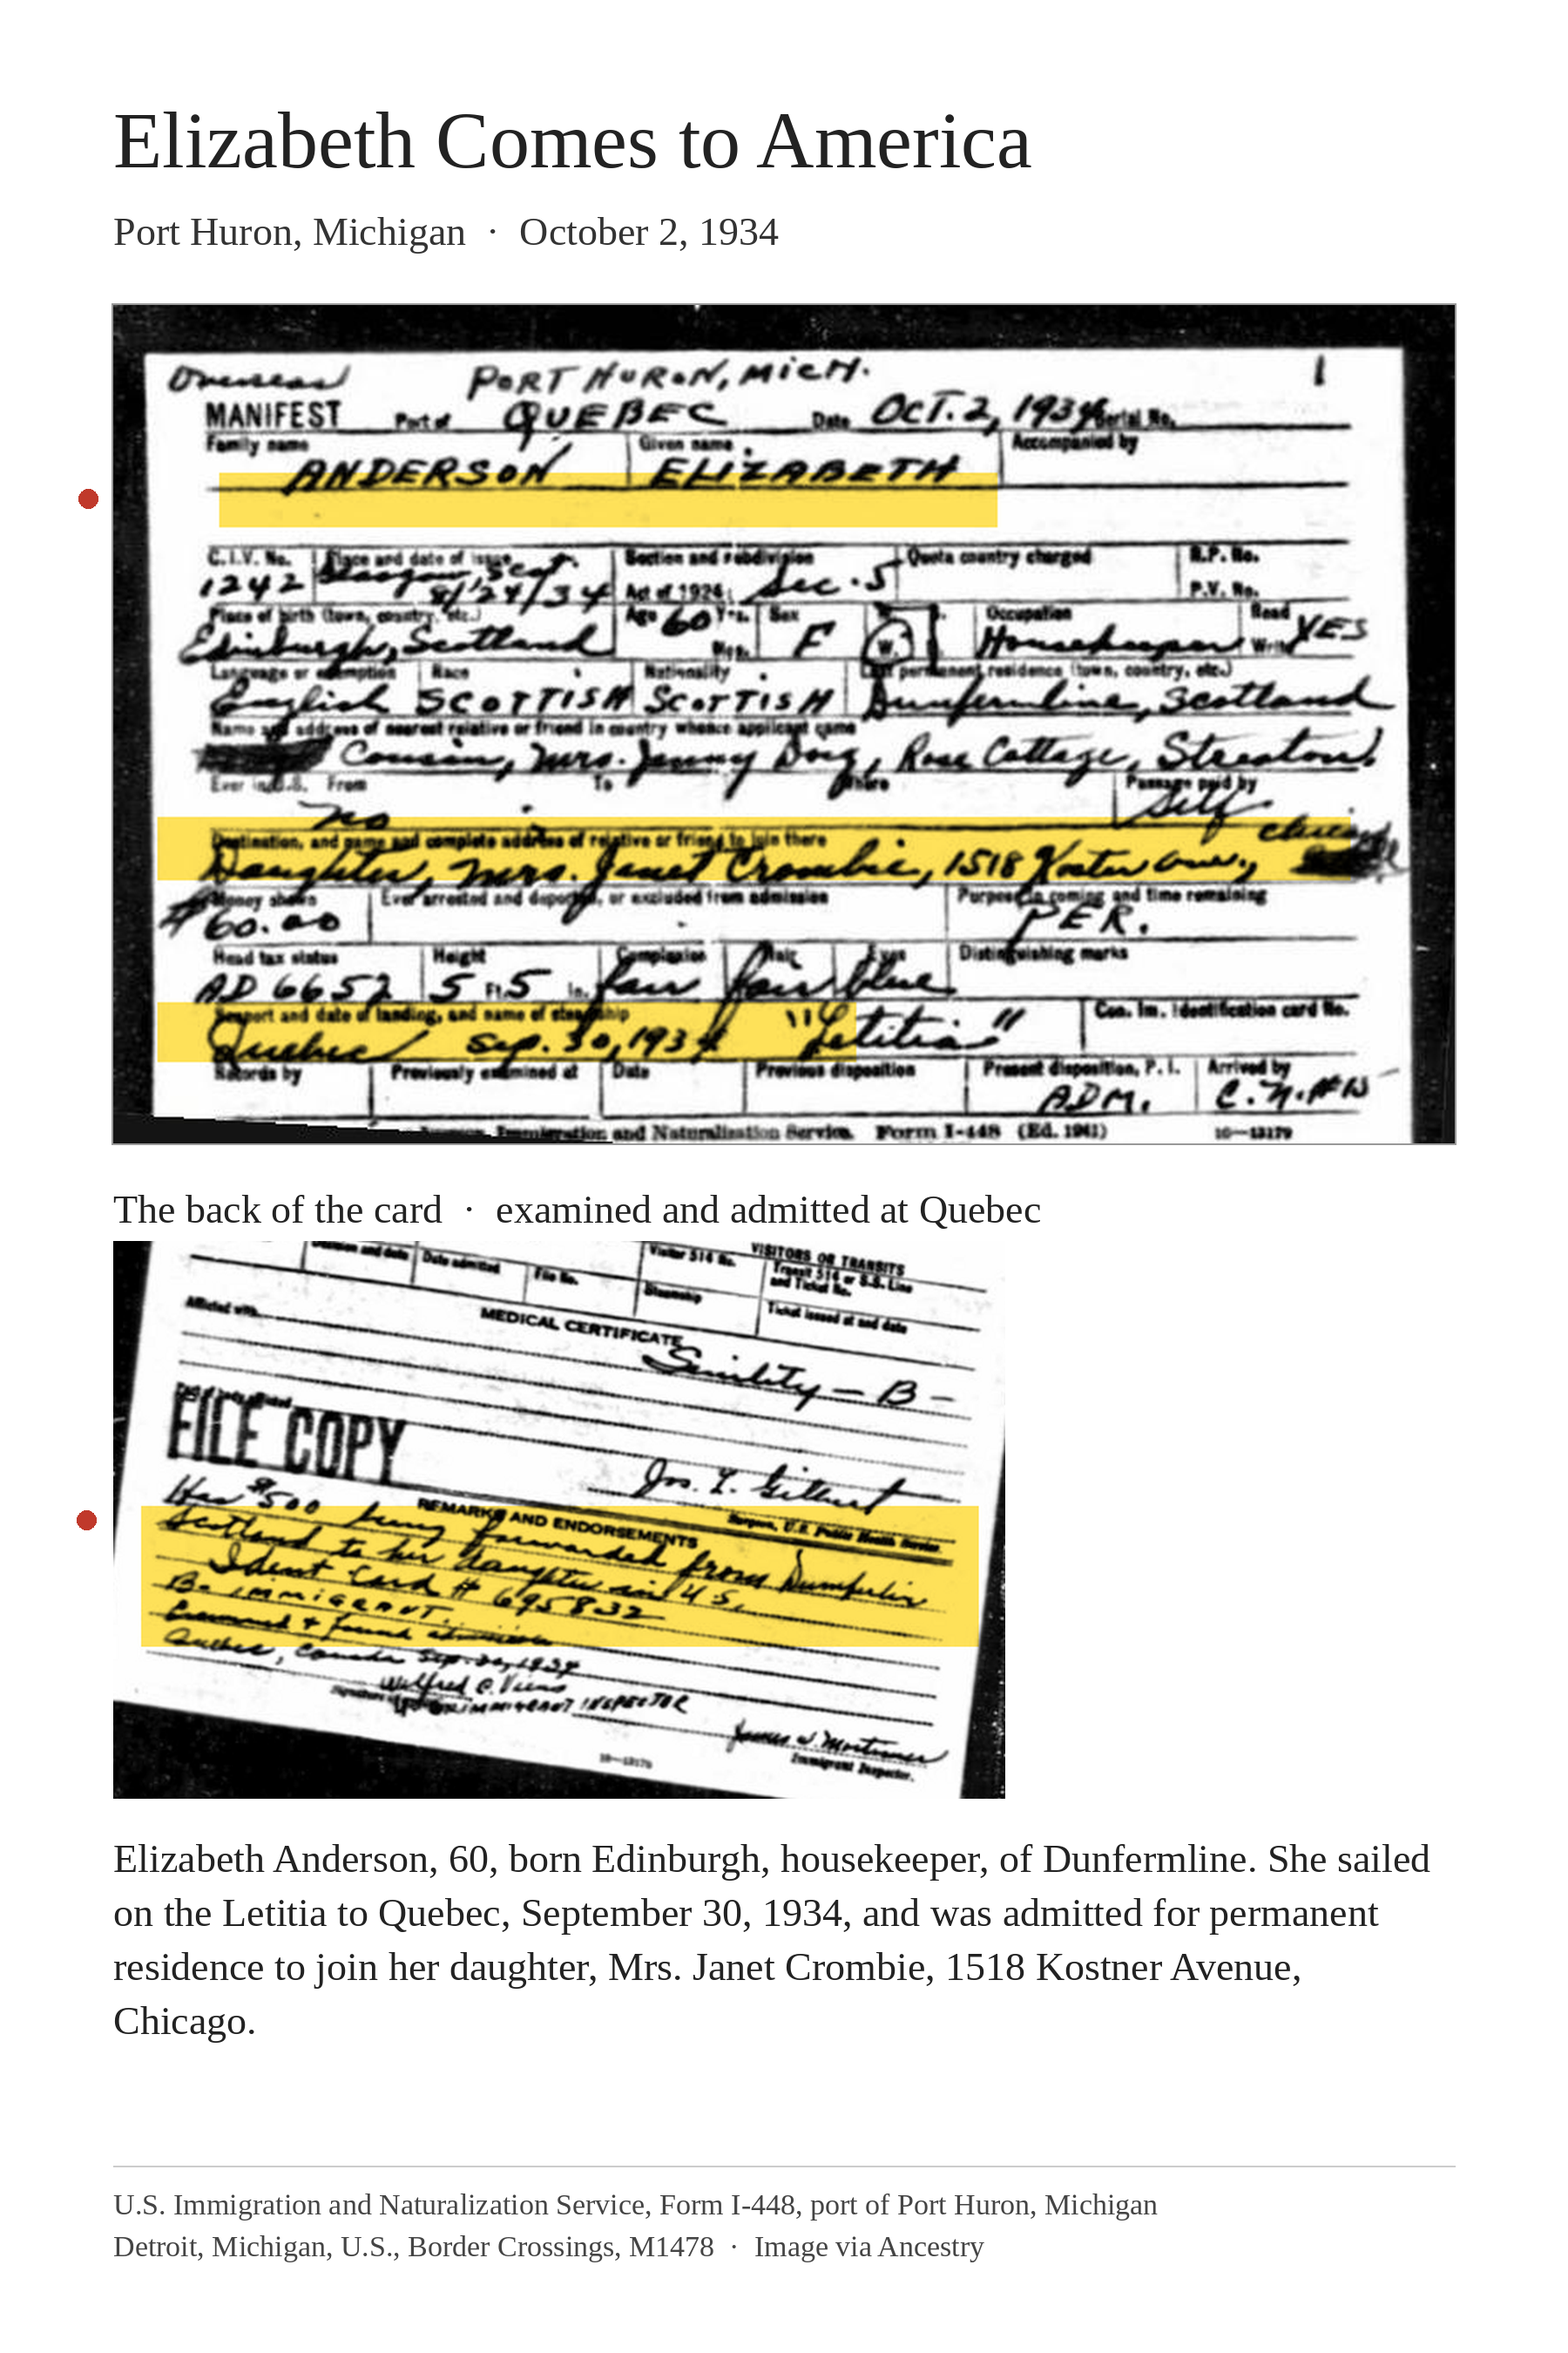
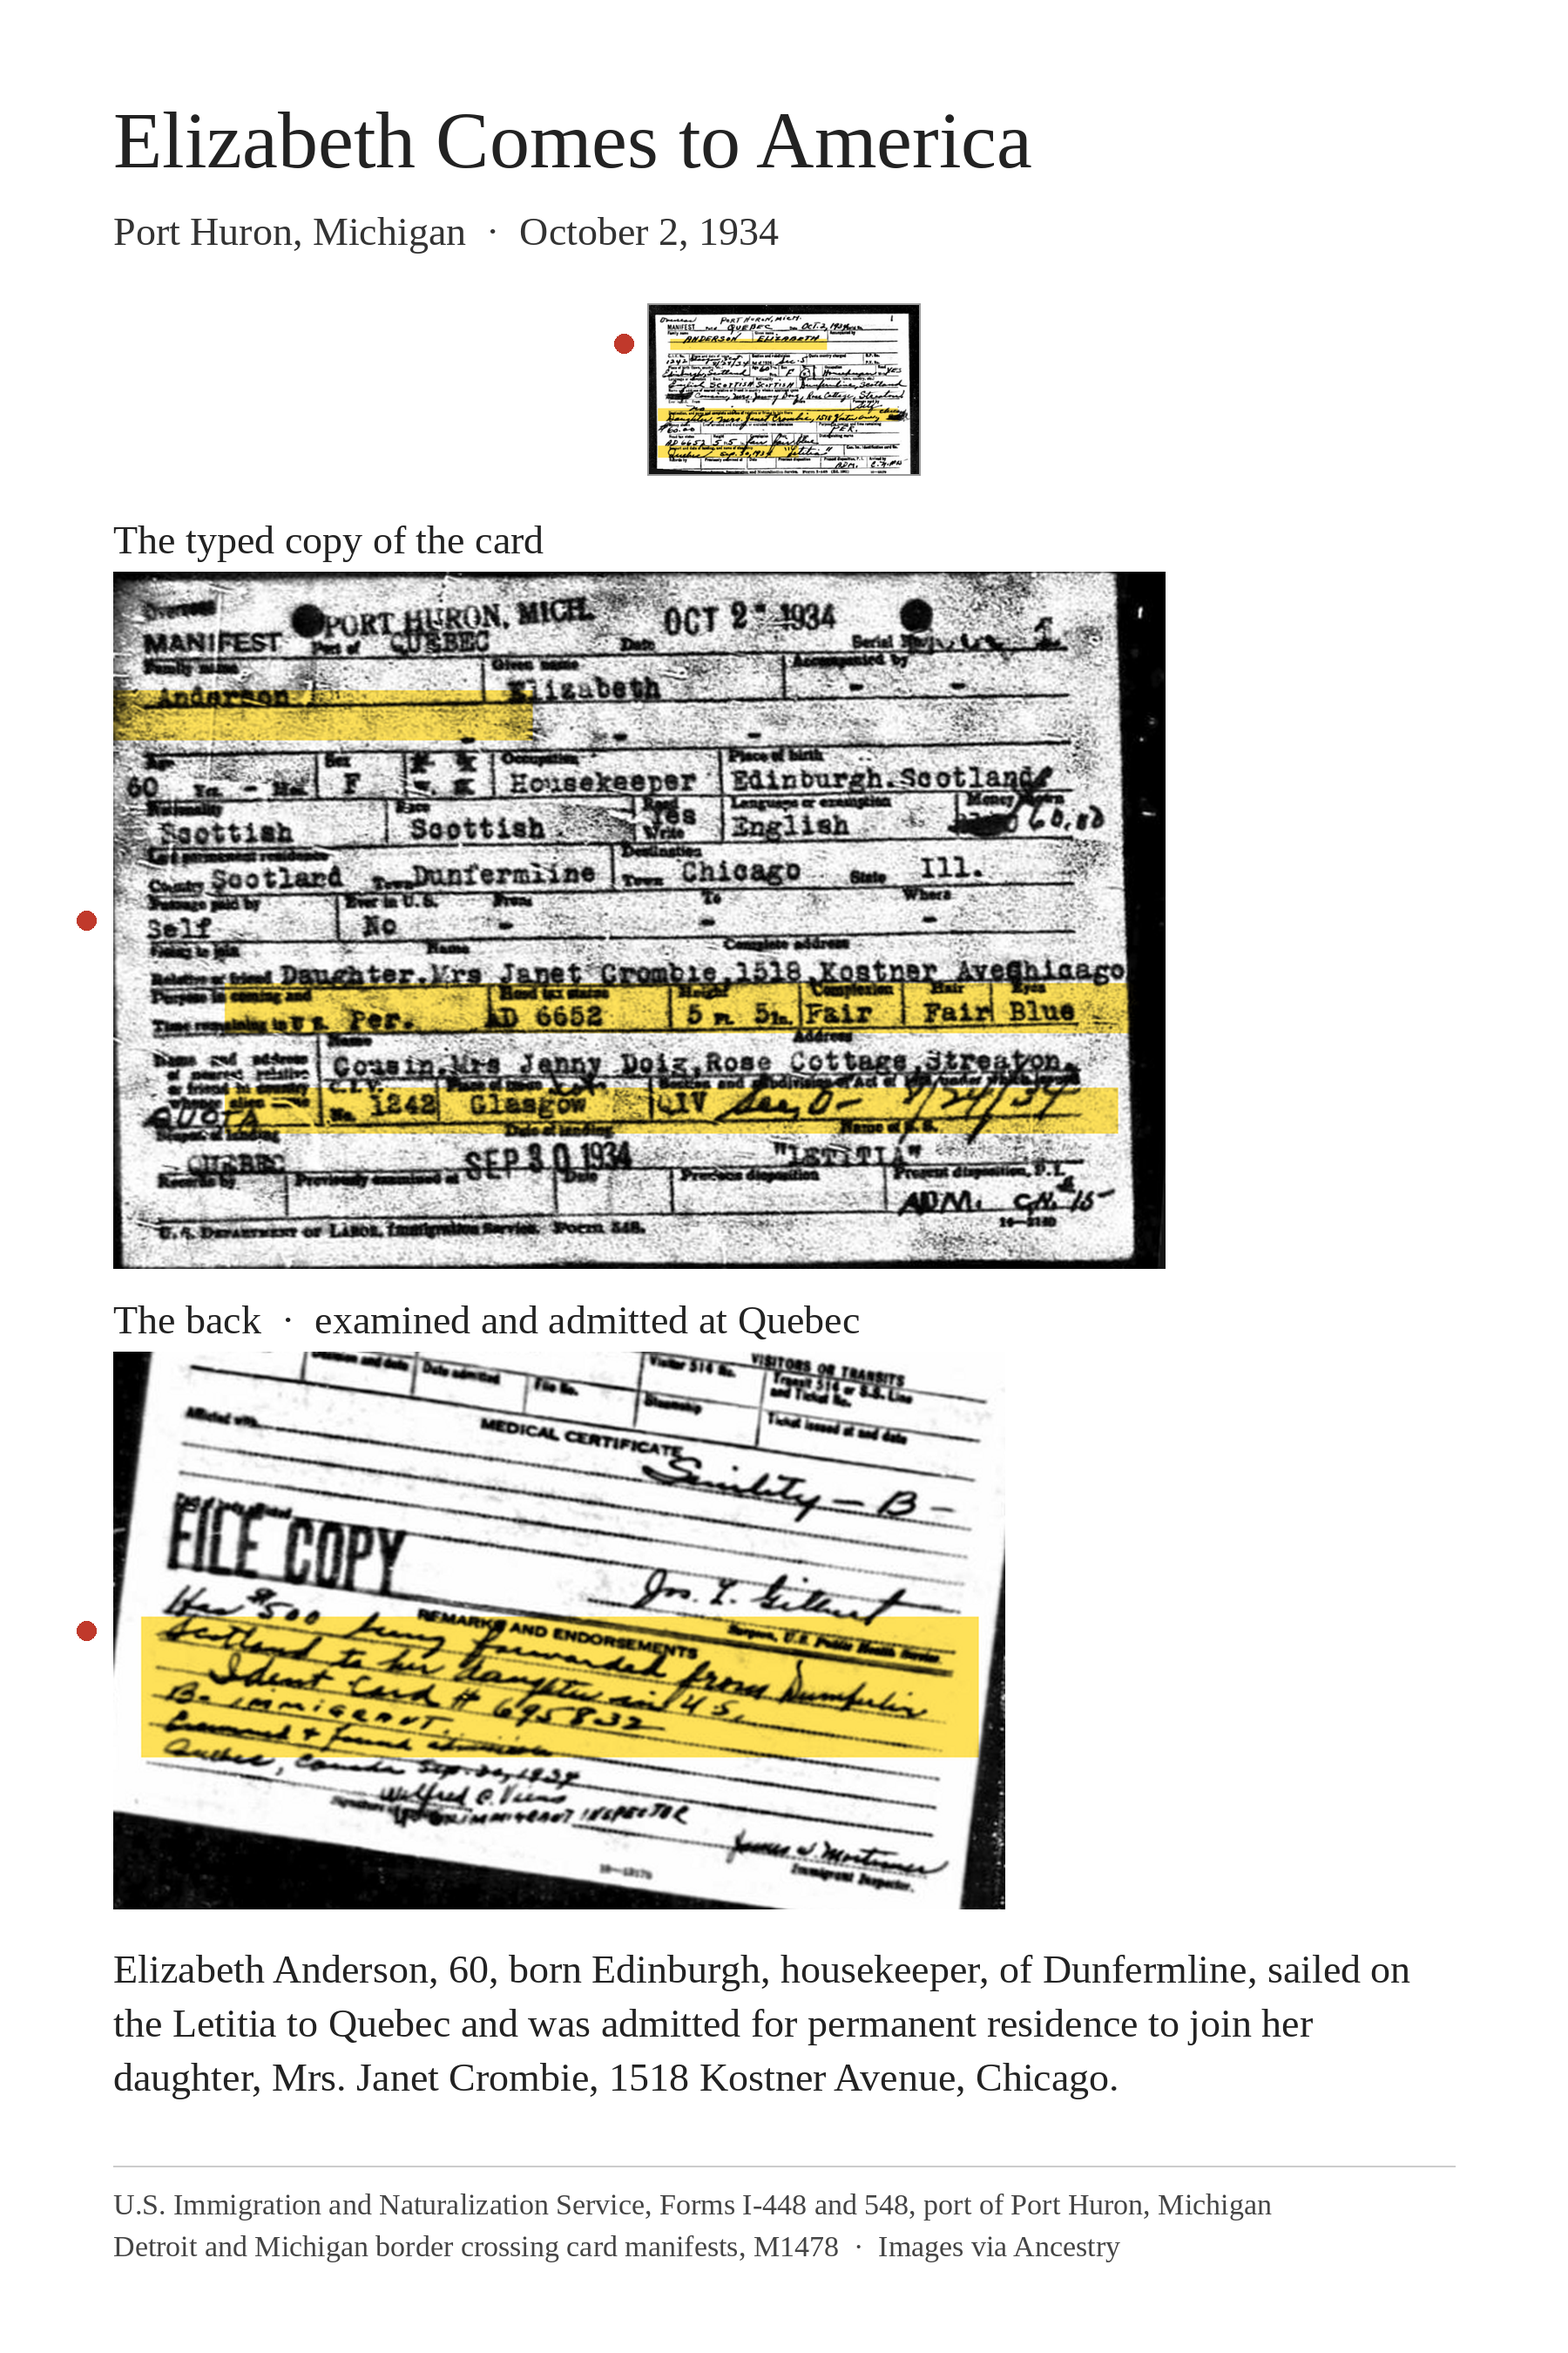
Names He Carried: 1934 card plate adds typed copy; cousin's address as typed
Claude-Session: https://claude.ai/code/session_01Rvhfw5TtgKAkgbhKuBbn5L

diff --git a/the-names-he-carried/docs/elizabeth-anderson-border-card-1934.html b/the-names-he-carried/docs/elizabeth-anderson-border-card-1934.html
@@ -2,8 +2,8 @@
 <a class="b" href="../#sources">← Sources and documents</a>
 <h1>1934 border card: Elizabeth Anderson comes to America</h1><p class="src">U.S. Immigration and Naturalization Service, Form I-448, port of Port Huron, Michigan, October 2, 1934. Card Manifests of Individuals Entering through the Port of Detroit, M1478. Image via Ancestry.</p>
 <figure><a href="../img/elizabeth-anderson-1934-port-huron-card.png"><img src="../img/elizabeth-anderson-1934-port-huron-card.png" alt="1934 border card: Elizabeth Anderson comes to America, entry highlighted"></a></figure>
-<p class="cap">The entries are marked in red and highlighted.</p>
+<p class="cap">The handwritten card, the typed copy and the back of the card. The entries are marked in red and highlighted.</p>
 <h2>What this document is</h2><p class="w">A U.S. immigration card written for each traveller who came into the United States from Canada. The inspector recorded name, age, birthplace, last home, the relative being joined and a description; the back holds the inspector’s remarks.</p>
-<h2>What it says</h2><ul><li>Anderson, Elizabeth; age 60; born Edinburgh, Scotland; housekeeper; last permanent residence Dunfermline, Scotland.</li><li>Nearest relative left behind: a cousin, Mrs. Jenny Doig (Ancestry's index reads Daiz), Rose Cottage.</li><li>Going to her daughter, Mrs. Janet Crombie, 1518 Kostner Avenue, Chicago, for permanent residence; she paid her own passage and carried $60.</li><li>Five feet five, fair complexion, fair hair, blue eyes.</li><li>Landed at Quebec from the Letitia on September 30, 1934; admitted at Port Huron, October 2, 1934.</li><li>On the back: money being forwarded from Dunfermline to her daughter in the U.S.; examined and found admissible at Quebec.</li></ul>
+<h2>What it says</h2><ul><li>Anderson, Elizabeth; age 60; born Edinburgh, Scotland; housekeeper; last permanent residence Dunfermline, Scotland.</li><li>Nearest relative left behind: a cousin, Mrs. Jenny Doig, Rose Cottage, Streaton (as typed on the second copy of the card).</li><li>Going to her daughter, Mrs. Janet Crombie, 1518 Kostner Avenue, Chicago, for permanent residence; she paid her own passage and carried $60.</li><li>Five feet five, fair complexion, fair hair, blue eyes. Her immigration visa was issued at Glasgow.</li><li>Landed at Quebec from the Letitia on September 30, 1934; admitted at Port Huron, October 2, 1934.</li><li>On the back: money being forwarded from Dunfermline to her daughter in the U.S.; examined and found admissible at Quebec.</li></ul>
 <h2>Why it matters</h2><p class="w">Lizzie Douglas, the woman who raised Laurence, followed her children to America. In 1934, at sixty, she came to Chicago to live with Janet, a few doors from Laurence on Kostner Avenue.</p>
 <p><a href="../#chapter-21">Read it in the book</a></p></main></body></html>
